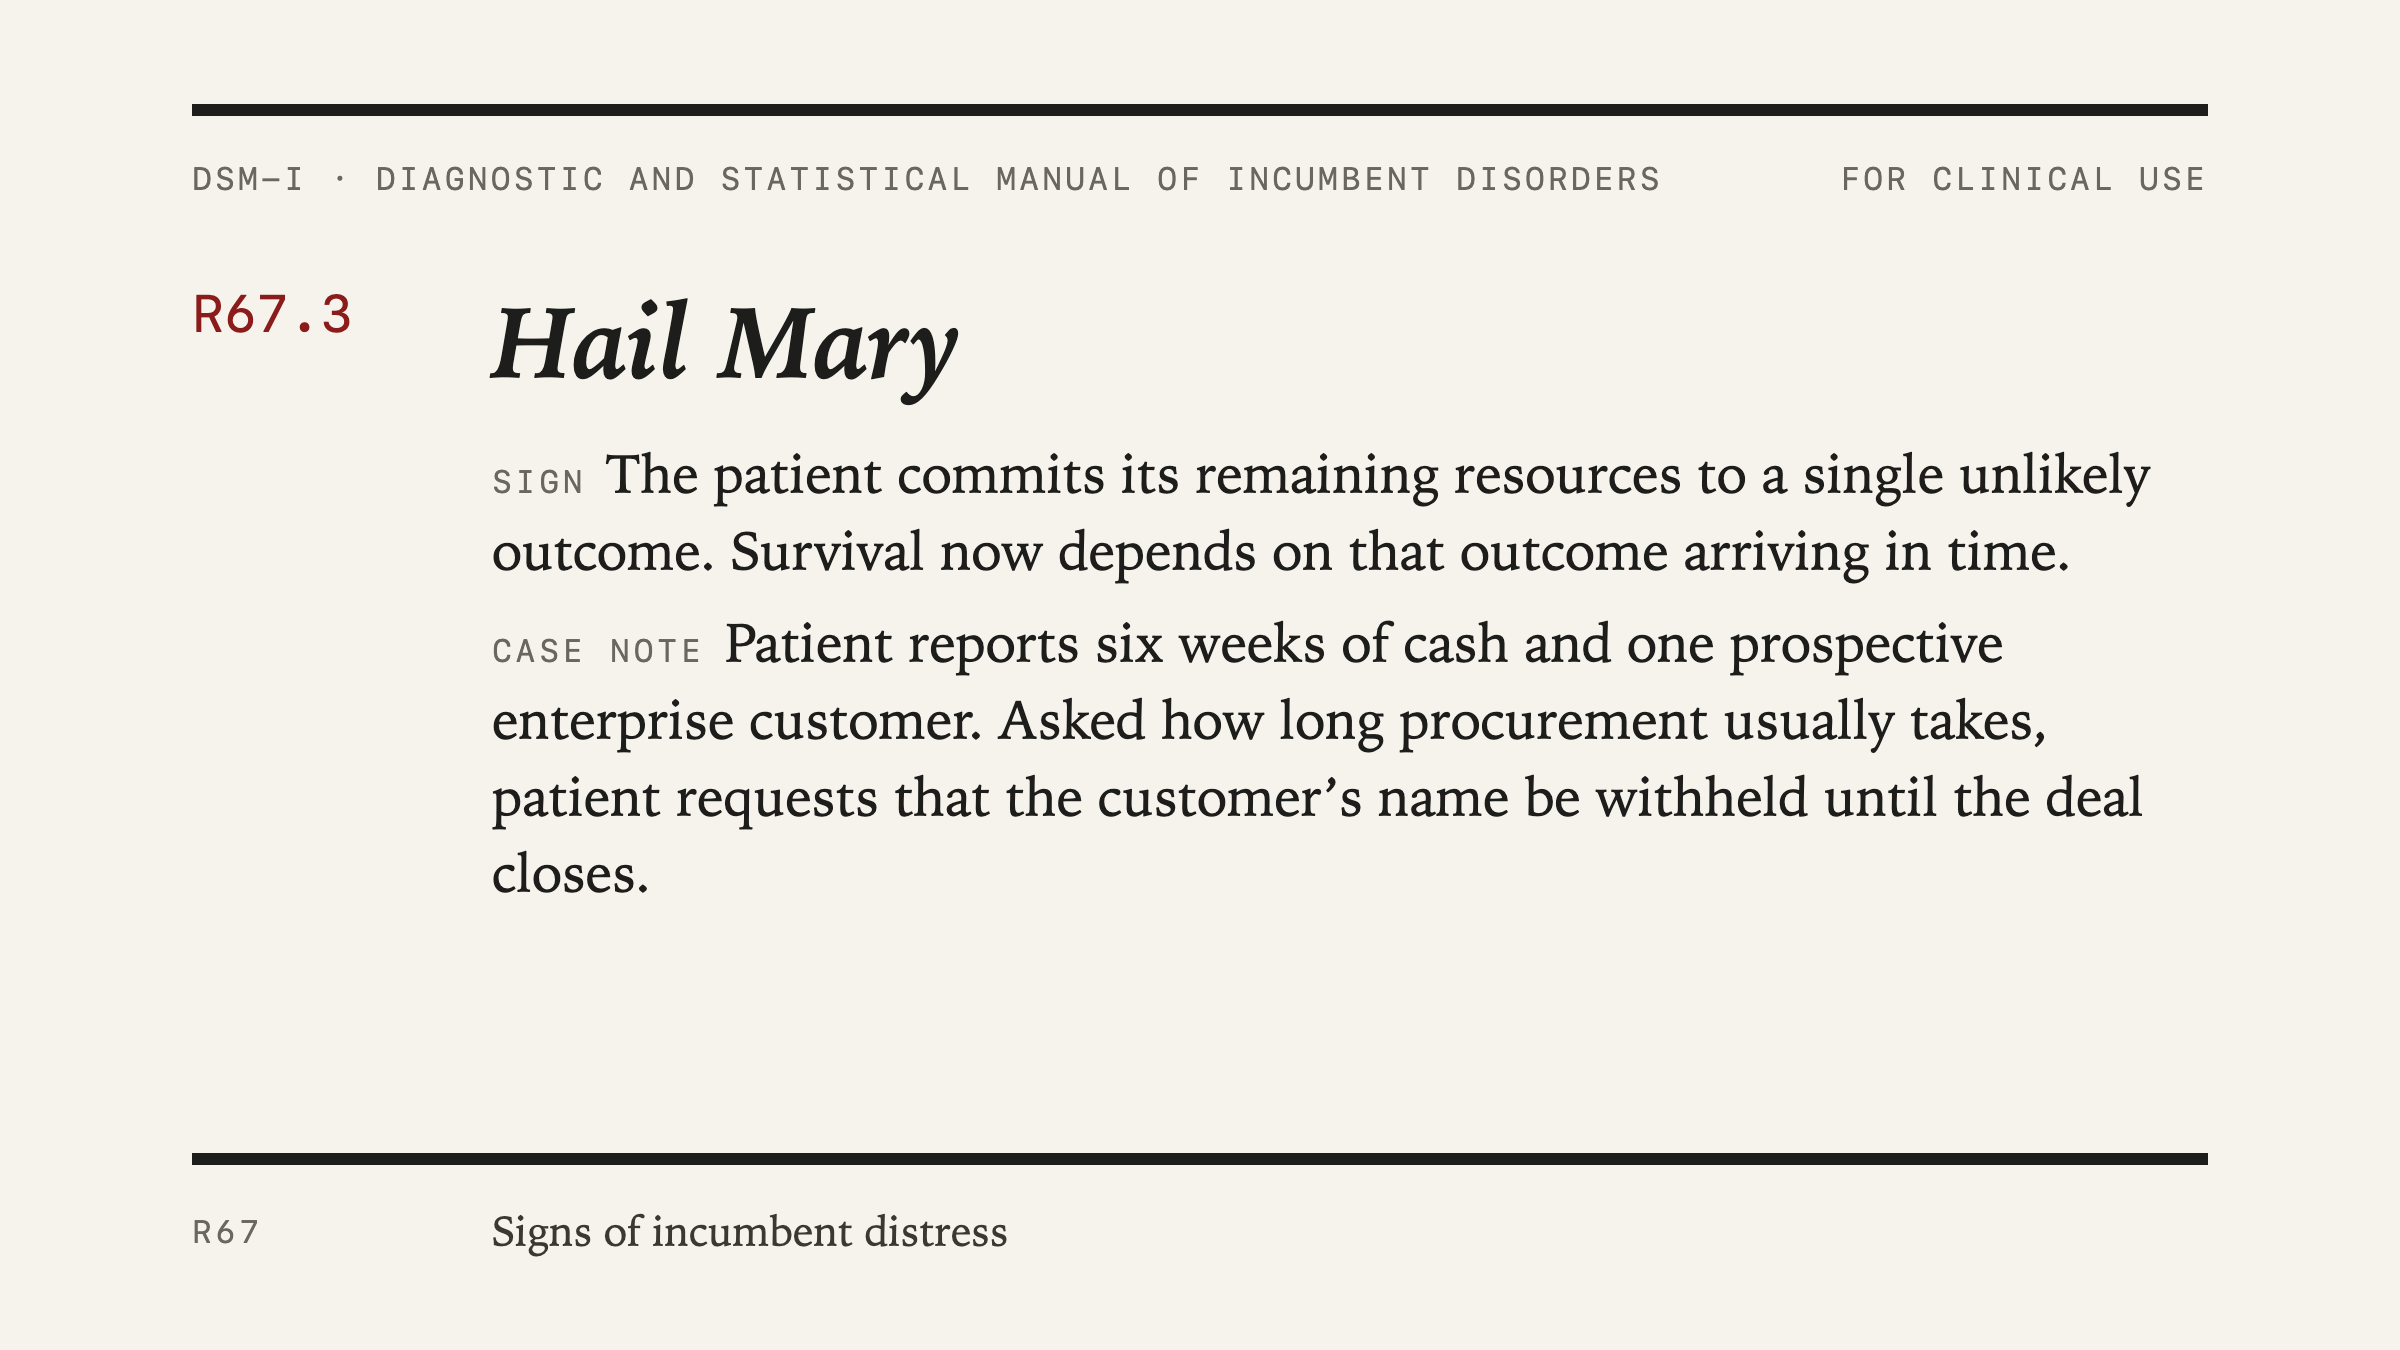
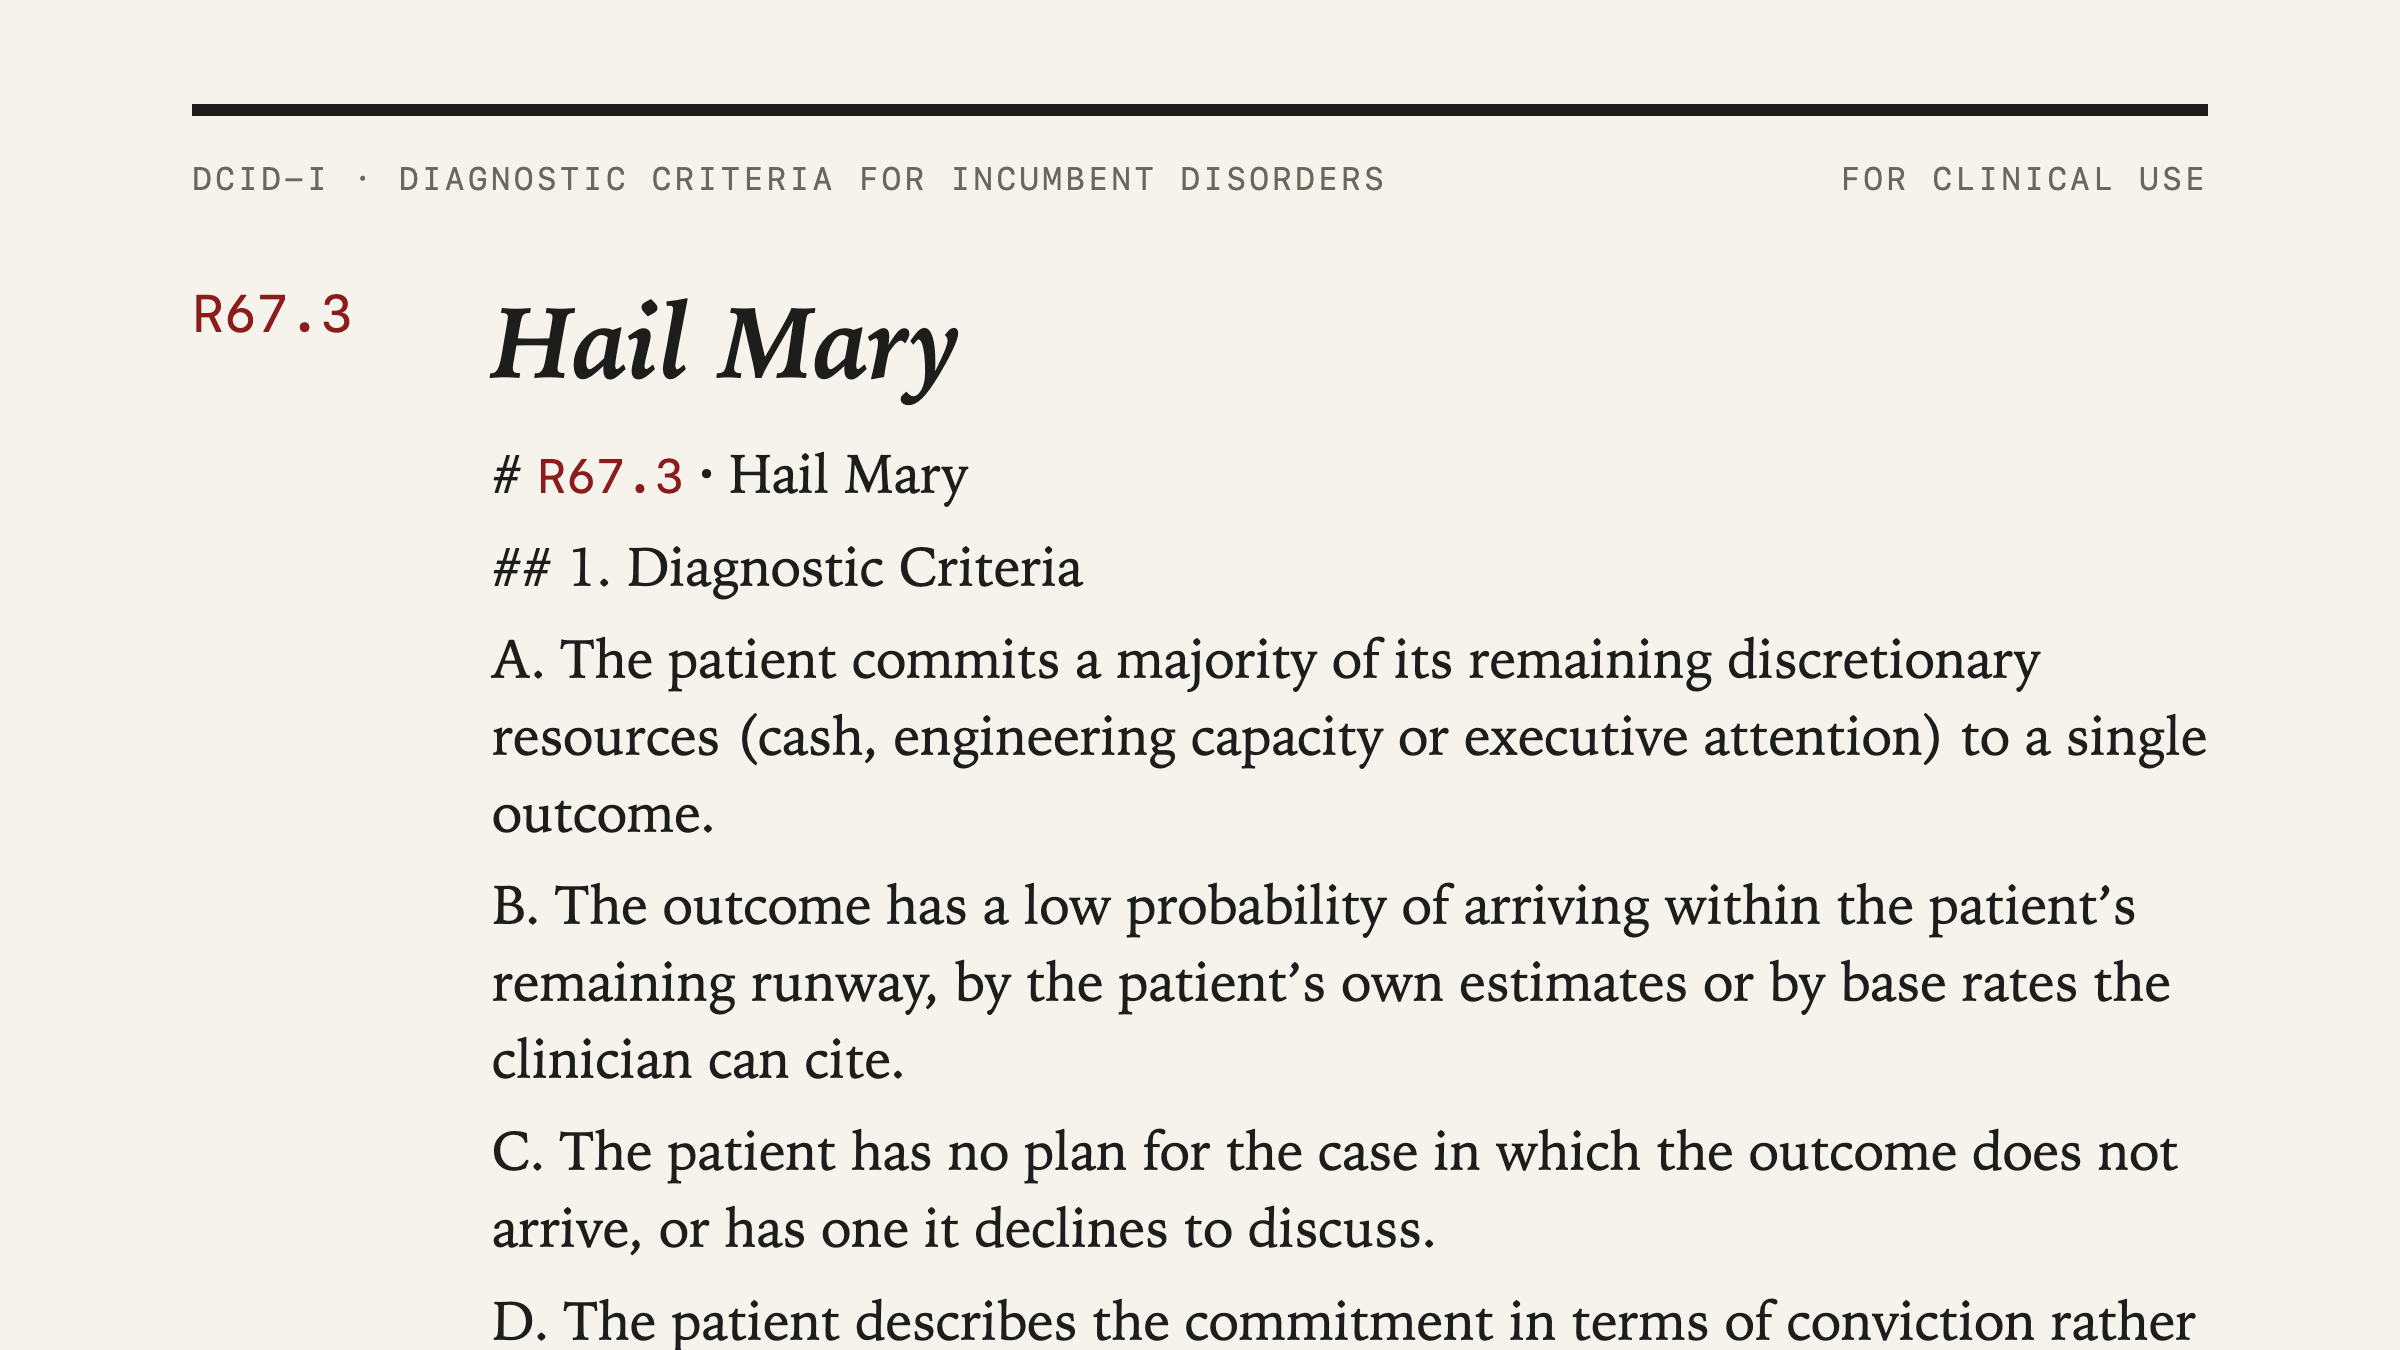
docs: rename to DCID-I, Diagnostic Criteria for Incumbent Disorders

diff --git a/README.md b/README.md
@@ -1,8 +1,8 @@
 # Pathologies of Incumbency
 
-**DSM-I · Diagnostic and Statistical Manual of Incumbent Disorders, First Edition**
+**DCID-I · Diagnostic Criteria for Incumbent Disorders, First Edition**
 
-![Pathologies of Incumbency](cards/dsm-i.png)
+![Pathologies of Incumbency](cards/dcid-i.png)
 
 A clinical reference for the signs of incumbent distress. Any resemblance to a company you have been watching is a matter for your own judgment.
 
@@ -49,8 +49,8 @@ Fork freely. Two conventions keep editions compatible with this one:
 
 ## 5. License
 
-Text and cards: [CC BY 4.0](LICENSE). Reuse, adapt and fork, with attribution to *Pathologies of Incumbency (DSM-I)* and a link to this repository.
+Text and cards: [CC BY 4.0](LICENSE). Reuse, adapt and fork, with attribution to *Pathologies of Incumbency (DCID-I)* and a link to this repository.
 
 ---
 
-*Pathologies of Incumbency* is a parody of the *Diagnostic and Statistical Manual of Mental Disorders*. It is not affiliated with or endorsed by the American Psychiatric Association, and it diagnoses companies, not people.
+*Pathologies of Incumbency* is a parody of clinical diagnostic manuals. It diagnoses companies, not people, and is not affiliated with any medical or psychiatric organization.

diff --git a/cases/2026-11-six-weeks-of-cash.md b/cases/2026-11-six-weeks-of-cash.md
@@ -4,7 +4,7 @@ date_observed: 2026-11
 reported: 2026-11
 findings: [R67.3, R67.1]
 specifiers: [commercial type, runway 6 weeks, insight unknown]
-physician: dsm-i editors
+physician: dcid-i editors
 ---
 
 # Six weeks of cash
